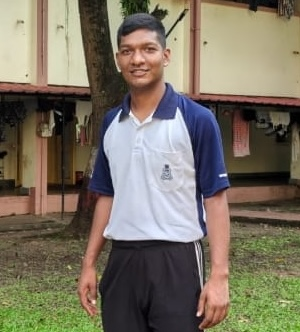
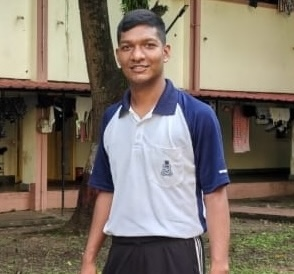
Added gurudev sir image

diff --git a/src/styles.css b/src/styles.css
@@ -1110,8 +1110,11 @@ html { scroll-padding-top: 92px; }
 .social-button { display:grid; place-items:center; width:42px; height:42px; border:1px solid var(--red-deep); border-radius:50%; color:var(--red-deep); text-decoration:none; transition:background .2s,color .2s,transform .2s; }
 .social-button:hover { background:var(--red-deep); color:#fff; transform:translateY(-2px); }
 .social-button svg { width:21px; height:21px; }
-.map-frame { height:320px; border-radius:var(--radius-md); overflow:hidden; box-shadow:var(--shadow-sm); margin:1rem 0; }
+.map-frame { position:relative; height:320px; border-radius:var(--radius-md); overflow:hidden; box-shadow:var(--shadow-sm); margin:1rem 0; }
 .map-frame iframe { width:100%; height:100%; border:0; }
+.map-open-link { position:absolute; z-index:2; top:.75rem; left:.75rem; display:inline-flex; align-items:center; gap:.4rem; padding:.65rem .9rem; border:1px solid rgba(18,32,52,.12); border-radius:999px; background:#fff; color:var(--navy); box-shadow:0 2px 8px rgba(0,0,0,.2); font-size:.875rem; font-weight:700; line-height:1.2; text-decoration:none; }
+.map-open-link:hover { background:var(--navy); color:#fff; }
+.map-open-link:focus-visible { outline:3px solid var(--red-deep); outline-offset:2px; }
 .footer-grid { grid-template-columns:1.2fr .8fr 1fr; align-items:start; }
 .footer-brand { display:flex; align-items:center; gap:.9rem; }
 .footer-brand img { border-radius:50%; object-fit:contain; background:#fff; }

diff --git a/src/components/Contact.jsx b/src/components/Contact.jsx
@@ -69,8 +69,10 @@ export default function Contact({ preselected }) {
           </address>
           <p className="timing-note">Call or WhatsApp for batch timings.</p>
           <div className="social-buttons" aria-label="Contact and social links">{socials.map((s) => <a key={s.label} className="social-button" href={s.href} aria-label={s.label} target={s.href.startsWith("http") ? "_blank" : undefined} rel={s.href.startsWith("http") ? "noopener noreferrer" : undefined}><svg viewBox="0 0 24 24" fill="none" stroke="currentColor" strokeWidth="1.8" strokeLinecap="round" strokeLinejoin="round" aria-hidden="true">{s.icon}</svg></a>)}</div>
-          <div className="map-frame"><iframe src={academy.mapsEmbedUrl} loading="lazy" title="Athak Prayas Academy location map" referrerPolicy="no-referrer-when-downgrade" /></div>
-          <p><a className="btn btn-outline btn-small" href={academy.mapsUrl} target="_blank" rel="noopener noreferrer">Get Directions</a></p>
+          <div className="map-frame">
+            <iframe src={academy.mapsEmbedUrl} loading="lazy" title="Athak Prayas Academy location map" referrerPolicy="no-referrer-when-downgrade" />
+            <a className="map-open-link" href={academy.mapsUrl} target="_blank" rel="noopener noreferrer">Open <span aria-hidden="true">↗</span></a>
+          </div>
         </div>
 
         <form onSubmit={onSubmit} noValidate aria-labelledby="enquiry-title">

diff --git a/src/data/academy.js b/src/data/academy.js
@@ -12,6 +12,6 @@ export const academy = {
   addressShort: "Station Road, Handia, Prayagraj, Uttar Pradesh",
   youtubeUrl: "https://youtube.com/@athakprayasacademy?si=-ZzPDo17ww2kFeHY",
   instagramUrl: "https://www.instagram.com/athak_prayas_academy/",
-  mapsUrl: "https://maps.app.goo.gl/yKzeDNfbfZMzi3xg6?g_st=awb",
-  mapsEmbedUrl: "https://www.google.com/maps?q=Station+Road+Handia+Prayagraj+Uttar+Pradesh+India&output=embed",
+  mapsUrl: "https://www.google.com/maps/place/Athak+Prayas+Academy/@25.3601649,82.1928508,17z/data=!3m1!4b1!4m6!3m5!1s0x3985570026c2bcc9:0xe3e5633b44157599!8m2!3d25.3601649!4d82.1928508!16s%2Fg%2F11n9p74qkh!18m1!1e1?entry=ttu&g_ep=EgoyMDI2MTAwNy4wIKXMDSoASAFQAw%3D%3D",
+  mapsEmbedUrl: "https://www.google.com/maps?q=25.3601649,82.1928508&output=embed",
 };

diff --git a/src/data/teachers.js b/src/data/teachers.js
@@ -20,6 +20,6 @@ export const teachers = [
     name: "Gurudev Sir",
     subject: "Science",
     details: "Specialized Science mentor guiding concepts in Physics, Chemistry, and Biology.",
-    photo: null,
+    photo: "/media/gurudevsir.jpeg",
   },
 ];
